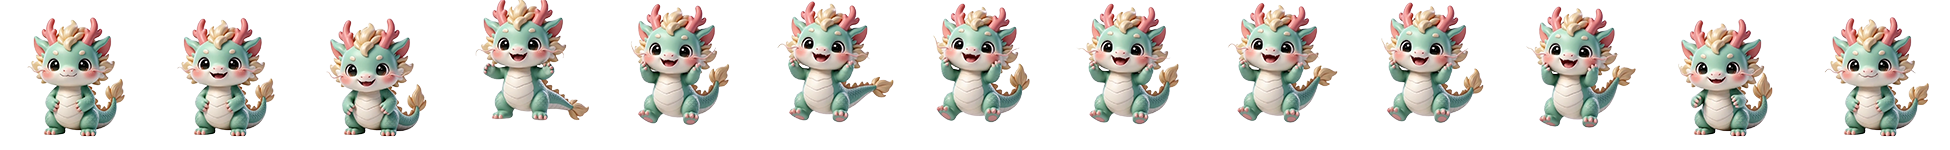
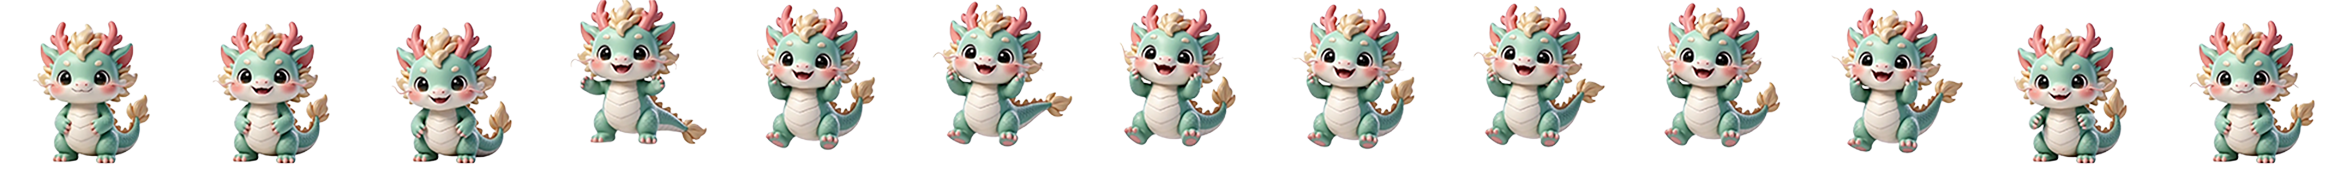
fix: 调整定时器逻辑，优化性能

diff --git a/src/ui/dragController.js b/src/ui/dragController.js
@@ -5,19 +5,27 @@ export function setupDragController({ onDragStart, onDragEnd }) {
 
   let dragging = false;
   let moved = false;
-  let startMouseX = 0;
-  let startMouseY = 0;
-  let startWindowX = 0;
-  let startWindowY = 0;
+  let hasMovedBeyondThreshold = false;
+  let hasAnyMovement = false;          // 是否发生过任何移动（即使很小）
+  let isDraggingActive = false;        // 是否真正进入拖动模式（移动过）
+  const MOVE_THRESHOLD = 5;
+  let startMouseX = 0, startMouseY = 0;
+  let startWindowX = 0, startWindowY = 0;
 
-  window.__isDraggingPet = false;
+  // 全局标志：禁止宠物点击唤醒
+  window._disablePetClick = false;
 
   pet.addEventListener("mousedown", async (e) => {
     if (e.button !== 0) return;
 
+    // 重置所有状态
     dragging = true;
     moved = false;
-    window.__isDraggingPet = true;  // 立即标记，阻止高度调整
+    hasMovedBeyondThreshold = false;
+    hasAnyMovement = false;
+    isDraggingActive = false;
+    window._disablePetClick = false;   // 新的一按，先允许点击
+    window.__isDraggingPet = true;
 
     startMouseX = e.screenX;
     startMouseY = e.screenY;
@@ -37,13 +45,28 @@ export function setupDragController({ onDragStart, onDragEnd }) {
     const deltaX = e.screenX - startMouseX;
     const deltaY = e.screenY - startMouseY;
 
-    if (Math.abs(deltaX) > 2 || Math.abs(deltaY) > 2) {
-      if (!moved) moved = true;
+    // 只要有任何移动就标记
+    if (deltaX !== 0 || deltaY !== 0) {
+      hasAnyMovement = true;
+      // 第一次移动时，激活拖动模式并禁止点击唤醒
+      if (!isDraggingActive) {
+        isDraggingActive = true;
+        window._disablePetClick = true;
+      }
     }
 
-    const nextX = startWindowX + deltaX;
-    const nextY = startWindowY + deltaY;
-    await window.desktopPetAPI.setWindowPosition(nextX, nextY);
+    // 检查是否超过阈值（用于真正移动窗口）
+    if (!hasMovedBeyondThreshold && (Math.abs(deltaX) > MOVE_THRESHOLD || Math.abs(deltaY) > MOVE_THRESHOLD)) {
+      hasMovedBeyondThreshold = true;
+      moved = true;
+    }
+
+    // 只有确认拖动后才移动窗口
+    if (hasMovedBeyondThreshold) {
+      const nextX = startWindowX + deltaX;
+      const nextY = startWindowY + deltaY;
+      await window.desktopPetAPI.setWindowPosition(nextX, nextY);
+    }
   });
 
   async function finishDrag() {
@@ -51,9 +74,23 @@ export function setupDragController({ onDragStart, onDragEnd }) {
     dragging = false;
     document.body.style.userSelect = "";
     const finalPos = await window.desktopPetAPI.getWindowPosition();
+
+    // 如果真正进入过拖动模式（有过移动），则延迟恢复点击能力
+    if (isDraggingActive) {
+      // 拖拽结束后 200ms 内禁止点击唤醒
+      setTimeout(() => {
+        window._disablePetClick = false;
+      }, 200);
+    } else {
+      // 纯点击，保证不禁用
+      window._disablePetClick = false;
+    }
+
+    // 延迟重置拖拽标志
     setTimeout(() => {
       window.__isDraggingPet = false;
-    }, 100);
+    }, 50);
+
     if (onDragEnd) onDragEnd(finalPos, moved);
   }
 

diff --git a/src/ui/renderPet.js b/src/ui/renderPet.js
@@ -12,18 +12,13 @@ export function renderPet({ petState, uiState }) {
   // 更新宠物的 CSS 类（基于 emotion）
   if (petEl) {
     const currentEmotion = petState.getEmotion();
-    // 移除所有可能的状态类（可扩展更多）
     petEl.classList.remove('idle', 'happy');
     petEl.classList.add(currentEmotion);
 
-    // 如果当前是 happy 动画（一次性），监听动画结束事件自动切回 idle
     if (currentEmotion === 'happy') {
-      // 先移除之前的监听器，避免重复绑定
       const onAnimEnd = () => {
-        // 确保动画结束后，如果宠物状态仍然是 happy，则切回 idle
         if (petState.getEmotion() === 'happy') {
           petState.setEmotion('idle');
-          // 重新渲染以更新 CSS 类
           renderPet({ petState, uiState });
         }
         petEl.removeEventListener('animationend', onAnimEnd);
@@ -32,10 +27,12 @@ export function renderPet({ petState, uiState }) {
     }
   }
 
-  // 控制底部按钮栏和面板的显隐（原有逻辑）
+  // 控制底部按钮栏和面板的显隐
   if (uiState.getIsAwake()) {
+    // 移除 hidden 类，并强制设置 display 为 flex（确保可见）
     bottomPanel.classList.remove("hidden");
     bottomPanel.style.display = 'flex';
+
     const activePanel = uiState.getActivePanel();
     if (activePanel === 'todo') {
       positionPanel(todoPanel, bottomPanel);

diff --git a/src/renderer.js b/src/renderer.js
@@ -337,12 +337,16 @@ function bindEvents() {
     resetBubbleCycle();
   });
 
-  pet?.addEventListener("click", () => {
-    if (window.__isDraggingPet) return;
+pet?.addEventListener("click", () => {
+    // 如果正处于拖动模式或拖动刚结束后的禁止期，则不唤醒
+    if (window._disablePetClick) return;
+
+    // 原有的 dragJustHappened 判断可以保留
     if (dragJustHappened) {
       dragJustHappened = false;
       return;
     }
+    // ... 其余代码保持不变
     if (uiState.getActivePanel() || uiState.getActiveInput()) {
       uiState.setActivePanel(null);
       uiState.closeInput();
@@ -436,10 +440,10 @@ async function init() {
     uiState.sleep();
     uiState.setActivePanel(null);
 
-const { x, y } = appState.window;
-if (typeof x === 'number' && typeof y === 'number' && !isNaN(x) && !isNaN(y)) {
-  await window.desktopPetAPI.setWindowPosition(x, y);
-}
+    const { x, y } = appState.window;
+    if (typeof x === 'number' && typeof y === 'number' && !isNaN(x) && !isNaN(y)) {
+      await window.desktopPetAPI.setWindowPosition(x, y);
+    }
 
     renderAll();
 

diff --git a/src/index.html b/src/index.html
@@ -42,7 +42,7 @@
   <!-- 固定区域（始终位于底部） -->
   <div class="fixed-area">
     <!-- 底部按钮栏 -->
-    <div id="bottom-panel" class="panel hidden" style="display: none !important;">
+    <div id="bottom-panel" class="panel hidden" >
       <button id="feed-btn">投喂</button>
       <button id="todo-btn">待办</button>
       <button id="pet-btn">摸摸</button>
